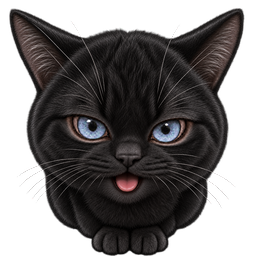
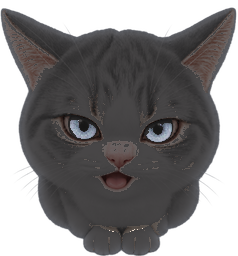
Public 0.5.22-B: the black cat does everything the white cat does
- Every dark-theme cat picture is now the white cat recoloured (tools/cat/recolor_dark.py): same shapes, motions and timing, black fur keeping the light/shade as soft texture, blue eyes kept (found as small blobs ringed by the eyelid line), dusky pink ears, nose, pads and tongue, the treat pouch and album props in their own colours, and a light rim along the outline so the cat reads on a dark taskbar
- Built: 11 stills, the gaze in-betweens, 3 lock widget motions, 17 taskbar motions (colour strips only, alpha shared) and 17 album cards
- In the dark theme the cat now walks, rests, plays from the menu, grows (its own points), gets surprise toys, and its notebook album shows black-cat cards
- Help: the white and the black cat keep their own points and size

diff --git a/src/OneKey/Strings.g.cs b/src/OneKey/Strings.g.cs
@@ -675,7 +675,7 @@ internal static partial class T
         "깜짝 놀잇감",
         "도움말 · 백업과 복원",
         "## 백업 파일 만들기\n• 설정 › 백업 파일 [백업]. \"마스터 비밀번호 입력\"에 지금 마스터를 넣고, 백업 파일에만 쓸 비밀번호를 \"백업 비밀번호 입력 / 확인\"에 정합니다.\n• 비밀번호·연결·설정·프로그램 목록이 모두 들어가, 다른 PC 나 Windows 재설치 뒤에도 복원할 수 있습니다.\n! 백업 파일은 백업 비밀번호 하나로만 잠깁니다. 길고 다른 데서 쓰지 않는 비밀번호로 정하고, 메일·메신저·공유 폴더가 아니라 본인이 관리하는 곳(USB 등)에 두세요. 잊으면 복원할 수 없습니다.\n## 복원 — 쓰던 PC\n• 설정 › 백업 파일 [복원]. 먼저 지금 설정도 백업 파일로 남길지 묻습니다.\n• 백업 파일과 백업 비밀번호만 넣습니다. 마스터 비밀번호는 지금 쓰는 것을 그대로 씁니다.\n## 복원 — 새 PC·Windows 재설치\n• 처음 설정 화면에서 트레이 아이콘 메뉴 › 백업에서 복원.\n• 백업 비밀번호와, 이 PC 에서 쓸 새 마스터 비밀번호를 넣습니다(예전과 같아도 됩니다).\n## 복원한 뒤\n• 1Key 가 잠기고 설정을 다시 읽습니다. 마스터로 잠금을 푸세요.\n> 프로그램·폴더는 이 PC 에서 다시 확인하며, 없는 프로그램은 실행하지 않습니다.",
-        "## 고양이 만나기\n• 1Key 창을 닫아 트레이로 내리면 작업 표시줄에 고양이가 나와요(설정 › 트레이 위젯 모드).\n• 마우스를 올리면 이름과 하트, 오른쪽 클릭하면 놀이 메뉴가 나와요.\n> 이름은 설정에서 흰 고양이 · 검은 고양이 따로 지어요. 지금 상태는 메뉴의 [수첩]에서 봐요.\n## 자라는 단계\n@stages:6\n• 콩떡 → 찹쌀떡 → 모닝빵 → 식빵 → 통식빵 → 대왕식빵. 20점마다 한 단계씩 커져요.\n## 점수 받는 법\n@missions:stamp=0|pet=0|treat=0|play=0|toy=0|break=0|pw=0/3|backup=0|master=0\n• 쓰담 · 츄르 · 놀이: 오른쪽 클릭 메뉴에서. 같은 놀이는 3분에 한 번 점수를 받아요.\n• 출근 도장: 그날 처음 잠금을 풀면 찍혀요. 주말은 건너뛰어도 연속, 자동 잠금을 켜 두면 +5 더.\n• 깜짝 놀잇감: 가끔 나비 · 털실 공 · 비눗방울이 나타나요. 누르면 고양이가 뛰어들어 놀아요.\n• 쉬는 시간: 50분 쉬지 않고 일하면 고양이가 쉬자고 해요. 5분 넘게 쉬고 오면 점수.\n• 보안 습관: 저장된 비밀번호 바꾸기(하루 세 번) · 백업 파일 만들기(일주일에 한 번) · 마스터 비밀번호 바꾸기(30일에 한 번).\n## 알아 두기\n> 벌칙은 없어요. 1Key가 켜져 있는 동안 10분에 1점씩 줄지만, 콩떡보다 작아지지 않아요.\n• 꺼져 있거나 PC가 잠든 시간은 세지 않아요.\n• 검은 고양이(어두운 테마)는 놀이 그림이 준비되면 같은 규칙으로 자라요.",
+        "## 고양이 만나기\n• 1Key 창을 닫아 트레이로 내리면 작업 표시줄에 고양이가 나와요(설정 › 트레이 위젯 모드).\n• 마우스를 올리면 이름과 하트, 오른쪽 클릭하면 놀이 메뉴가 나와요.\n> 이름은 설정에서 흰 고양이 · 검은 고양이 따로 지어요. 지금 상태는 메뉴의 [수첩]에서 봐요.\n## 자라는 단계\n@stages:6\n• 콩떡 → 찹쌀떡 → 모닝빵 → 식빵 → 통식빵 → 대왕식빵. 20점마다 한 단계씩 커져요.\n## 점수 받는 법\n@missions:stamp=0|pet=0|treat=0|play=0|toy=0|break=0|pw=0/3|backup=0|master=0\n• 쓰담 · 츄르 · 놀이: 오른쪽 클릭 메뉴에서. 같은 놀이는 3분에 한 번 점수를 받아요.\n• 출근 도장: 그날 처음 잠금을 풀면 찍혀요. 주말은 건너뛰어도 연속, 자동 잠금을 켜 두면 +5 더.\n• 깜짝 놀잇감: 가끔 나비 · 털실 공 · 비눗방울이 나타나요. 누르면 고양이가 뛰어들어 놀아요.\n• 쉬는 시간: 50분 쉬지 않고 일하면 고양이가 쉬자고 해요. 5분 넘게 쉬고 오면 점수.\n• 보안 습관: 저장된 비밀번호 바꾸기(하루 세 번) · 백업 파일 만들기(일주일에 한 번) · 마스터 비밀번호 바꾸기(30일에 한 번).\n## 알아 두기\n> 벌칙은 없어요. 1Key가 켜져 있는 동안 10분에 1점씩 줄지만, 콩떡보다 작아지지 않아요.\n• 꺼져 있거나 PC가 잠든 시간은 세지 않아요.\n• 흰 고양이와 검은 고양이(어두운 테마)는 점수와 크기를 따로 키워요.",
         "백업 복원을 끝내지 못한 상태입니다. 설정이 섞이지 않도록 끝날 때까지 설정을 읽거나 저장하지 않습니다.\n설정 폴더의 파일을 다른 프로그램(백신·동기화 등)이 잡고 있으면 닫은 뒤 다시 시도하세요.\n{dir}\n\n[확인] 다시 시도    [취소] 1Key 끝내기(다음 실행 때 다시 시도)",
         "이 백업에는 프로그램·폴더 목록이 없습니다(만들 때 목록을 읽지 못함).\n지금 목록을 그대로 둘까요?\n\n[예] 지금 목록 그대로    [아니요] 목록을 비움    [취소] 복원 그만두기",
     };
@@ -1347,7 +1347,7 @@ internal static partial class T
         "Surprise toy",
         "Help · Backup and restore",
         "## Making a backup file\n• Settings › Backup file [Back up]. Enter your current master in \"Enter master password\", and set a password just for the backup file in \"Enter backup password / Confirm\".\n• Passwords, links, settings and the program list all go in, so you can restore on another PC or after reinstalling Windows.\n! The backup file is locked only by the backup password. Choose a long one you don't use elsewhere, and keep the file somewhere you control (such as a USB drive), not in mail, chat or shared folders. If you forget it, the file can't be restored.\n## Restoring — the PC you use\n• Settings › Backup file [Restore]. You're first asked whether to keep the current settings as a backup file too.\n• Enter only the backup file and the backup password. Your current master password stays.\n## Restoring — new PC or reinstalled Windows\n• On the first setup screen: tray icon menu › Restore from a backup.\n• Enter the backup password and a new master password for this PC (it may be the same as before).\n## After restoring\n• 1Key locks and reads the settings again. Unlock with the master.\n> Programs and folders are checked again on this PC; missing programs are not started.",
-        "## Meet the cat\n• Close the 1Key window to the tray and a cat appears on the taskbar (Settings › Tray widget mode).\n• Hover over it to see its name and hearts; right-click it for the play menu.\n> Name the white and the black cat in Settings. [Notebook] in the menu shows how your cat is doing.\n## Growing up\n@stages:6\n• Bean Cake → Mochi → Bread Roll → Loaf → Big Loaf → Mega Loaf. One step every 20 points.\n## Earning points\n@missions:stamp=0|pet=0|treat=0|play=0|toy=0|break=0|pw=0/3|backup=0|master=0\n• Pet · Treat · Play: from the right-click menu. Each counts once every 3 minutes.\n• Paw stamp: your first unlock of the day. Weekends don't break the streak; with auto-lock on, +5 more.\n• Surprise toys: now and then a butterfly, a ball of yarn or a soap bubble pops up. Click it and the cat leaps in to play.\n• Breaks: after 50 minutes of work without a break the cat suggests one. Come back after 5 minutes or more for points.\n• Security habits: change a saved password (three a day) · make a backup (once a week) · change the master password (once in 30 days).\n## Good to know\n> No penalties. While 1Key runs, 1 point fades every 10 minutes, but the cat never gets smaller than Bean Cake.\n• Time while 1Key is closed or the PC sleeps does not count.\n• The black cat (dark theme) will grow by the same rules once its play art is ready.",
+        "## Meet the cat\n• Close the 1Key window to the tray and a cat appears on the taskbar (Settings › Tray widget mode).\n• Hover over it to see its name and hearts; right-click it for the play menu.\n> Name the white and the black cat in Settings. [Notebook] in the menu shows how your cat is doing.\n## Growing up\n@stages:6\n• Bean Cake → Mochi → Bread Roll → Loaf → Big Loaf → Mega Loaf. One step every 20 points.\n## Earning points\n@missions:stamp=0|pet=0|treat=0|play=0|toy=0|break=0|pw=0/3|backup=0|master=0\n• Pet · Treat · Play: from the right-click menu. Each counts once every 3 minutes.\n• Paw stamp: your first unlock of the day. Weekends don't break the streak; with auto-lock on, +5 more.\n• Surprise toys: now and then a butterfly, a ball of yarn or a soap bubble pops up. Click it and the cat leaps in to play.\n• Breaks: after 50 minutes of work without a break the cat suggests one. Come back after 5 minutes or more for points.\n• Security habits: change a saved password (three a day) · make a backup (once a week) · change the master password (once in 30 days).\n## Good to know\n> No penalties. While 1Key runs, 1 point fades every 10 minutes, but the cat never gets smaller than Bean Cake.\n• Time while 1Key is closed or the PC sleeps does not count.\n• The white and the black cat (dark theme) each have their own points and size.",
         "A backup restore did not finish. Until it does, 1Key will not read or save settings, so they do not get mixed.\nIf another program (antivirus, sync, etc.) is holding files in the settings folder, close it and try again.\n{dir}\n\n[OK] try again    [Cancel] quit 1Key (it tries again next time)",
         "This backup has no program/folder list (the list could not be read when it was made).\nKeep the current list?\n\n[Yes] keep the current list    [No] empty the list    [Cancel] stop the restore",
     };
@@ -2019,7 +2019,7 @@ internal static partial class T
         "惊喜玩具",
         "帮助 · 备份与恢复",
         "## 制作备份文件\n• 设置 › 备份文件 [备份]。在 \"输入主密码\" 中输入当前主密码，在 \"输入备份密码 / 确认\" 中设置仅用于备份文件的密码。\n• 密码、关联、设置和程序列表都会包含在内，在其他电脑或重装 Windows 后也能恢复。\n! 备份文件只由备份密码保护。请设置较长且不在别处使用的密码，并把文件放在自己管理的地方（如 U 盘），而不是邮件、聊天或共享文件夹。忘记则无法恢复。\n## 恢复 — 正在使用的电脑\n• 设置 › 备份文件 [恢复]。会先询问是否把当前设置也保存为备份文件。\n• 只需输入备份文件和备份密码。主密码保持当前使用的不变。\n## 恢复 — 新电脑·重装 Windows\n• 在初次设置界面：托盘图标菜单 › 从备份恢复。\n• 输入备份密码，以及这台电脑要用的新主密码（可以与以前相同）。\n## 恢复之后\n• 1Key 会锁定并重新读取设置。请用主密码解锁。\n> 程序和文件夹会在这台电脑上重新确认，不存在的程序不会运行。",
-        "## 认识猫咪\n• 把 1Key 窗口关到托盘后，任务栏上会出现猫咪（设置 › 托盘小部件模式）。\n• 把鼠标移到猫咪上可以看到名字和爱心，右键点它打开玩耍菜单。\n> 可以在设置里分别给白猫和黑猫取名。菜单里的 [手账] 可以查看猫咪现在的状态。\n## 成长阶段\n@stages:6\n• 小豆糕 → 麻薯 → 小餐包 → 吐司 → 大吐司 → 超大吐司。每 20 分升一级。\n## 获得积分\n@missions:stamp=0|pet=0|treat=0|play=0|toy=0|break=0|pw=0/3|backup=0|master=0\n• 摸摸 · 零食 · 玩耍：在右键菜单里。同一种 3 分钟只计一次。\n• 爪印：当天第一次解锁时盖上。隔着周末也算连续，开启自动锁定再 +5。\n• 惊喜玩具：偶尔会出现蝴蝶、毛线球或肥皂泡。点一下，猫咪就会扑过去一起玩。\n• 休息：连续工作 50 分钟后猫咪会提醒你休息。休息 5 分钟以上回来就得分。\n• 安全习惯：更改已保存的密码（每天三次）· 创建备份（每周一次）· 更改主密码（30 天一次）。\n## 小提示\n> 没有惩罚。1Key 运行时每 10 分钟减 1 分，但最小也是小豆糕。\n• 关闭 1Key 或电脑睡眠的时间不计算。\n• 黑猫（深色主题）的玩耍图画准备好后会按同样规则长大。",
+        "## 认识猫咪\n• 把 1Key 窗口关到托盘后，任务栏上会出现猫咪（设置 › 托盘小部件模式）。\n• 把鼠标移到猫咪上可以看到名字和爱心，右键点它打开玩耍菜单。\n> 可以在设置里分别给白猫和黑猫取名。菜单里的 [手账] 可以查看猫咪现在的状态。\n## 成长阶段\n@stages:6\n• 小豆糕 → 麻薯 → 小餐包 → 吐司 → 大吐司 → 超大吐司。每 20 分升一级。\n## 获得积分\n@missions:stamp=0|pet=0|treat=0|play=0|toy=0|break=0|pw=0/3|backup=0|master=0\n• 摸摸 · 零食 · 玩耍：在右键菜单里。同一种 3 分钟只计一次。\n• 爪印：当天第一次解锁时盖上。隔着周末也算连续，开启自动锁定再 +5。\n• 惊喜玩具：偶尔会出现蝴蝶、毛线球或肥皂泡。点一下，猫咪就会扑过去一起玩。\n• 休息：连续工作 50 分钟后猫咪会提醒你休息。休息 5 分钟以上回来就得分。\n• 安全习惯：更改已保存的密码（每天三次）· 创建备份（每周一次）· 更改主密码（30 天一次）。\n## 小提示\n> 没有惩罚。1Key 运行时每 10 分钟减 1 分，但最小也是小豆糕。\n• 关闭 1Key 或电脑睡眠的时间不计算。\n• 白猫和黑猫（深色主题）的积分和大小各自分开。",
         "备份恢复尚未完成。为避免设置混杂，在完成之前不会读取或保存设置。\n如果有其他程序（杀毒、同步等）占用设置文件夹中的文件，请关闭后重试。\n{dir}\n\n[确定] 重试    [取消] 退出 1Key（下次启动时重试）",
         "此备份不含程序/文件夹列表（创建时无法读取列表）。\n要保留当前列表吗？\n\n[是] 保留当前列表    [否] 清空列表    [取消] 停止恢复",
     };
@@ -2691,7 +2691,7 @@ internal static partial class T
         "びっくりおもちゃ",
         "ヘルプ · バックアップと復元",
         "## バックアップ ファイルの作成\n• 設定 › バックアップ ファイル [バックアップ]。「マスター パスワードを入力」に今のマスターを入れ、バックアップ ファイル専用のパスワードを「バックアップ パスワードを入力 / 確認」で決めます。\n• パスワード・連携・設定・プログラム一覧がすべて入り、別の PC や Windows の再インストール後でも復元できます。\n! バックアップ ファイルはバックアップ パスワードだけで守られます。長く、ほかで使っていないパスワードにし、メール・メッセンジャー・共有フォルダーではなく自分で管理する場所（USB など）に置いてください。忘れると復元できません。\n## 復元 — 使っている PC\n• 設定 › バックアップ ファイル [復元]。先に今の設定もバックアップ ファイルに残すか尋ねます。\n• バックアップ ファイルとバックアップ パスワードだけを入れます。マスター パスワードは今のものをそのまま使います。\n## 復元 — 新しい PC・Windows の再インストール\n• 初期設定の画面で、トレイ アイコンのメニュー › バックアップから復元。\n• バックアップ パスワードと、この PC で使う新しいマスター パスワードを入れます（以前と同じでもかまいません）。\n## 復元したあと\n• 1Key がロックされ、設定を読み直します。マスターでロックを解除してください。\n> プログラム・フォルダーはこの PC で確認し直し、ないプログラムは実行しません。",
-        "## 猫に会う\n• 1Key のウィンドウを閉じてトレイに入れると、タスクバーに猫が出てきます（設定 › トレイ ウィジェット モード）。\n• マウスを乗せると名前とハート、右クリックすると遊びメニューが出ます。\n> 名前は設定で白猫 · 黒猫それぞれ付けられます。今の様子はメニューの [手帳] で見られます。\n## 育つ段階\n@stages:6\n• 豆もち → 大福 → ロールパン → 食パン → 山食パン → 特大食パン。20 点ごとに 1 段階大きくなります。\n## ポイントのもらい方\n@missions:stamp=0|pet=0|treat=0|play=0|toy=0|break=0|pw=0/3|backup=0|master=0\n• なでる · おやつ · あそぶ：右クリック メニューから。同じ遊びは 3 分に 1 回だけ。\n• 肉球スタンプ：その日はじめてロックを解除したとき。週末をはさんでも連続、自動ロックがオンならさらに +5。\n• びっくりおもちゃ：ときどき ちょうちょ · 毛糸玉 · しゃぼん玉が現れます。クリックすると猫が飛びついて遊びます。\n• 休憩：休まず 50 分作業すると猫が休もうと言います。5 分以上休んで戻るとポイント。\n• セキュリティ習慣：保存したパスワードの変更（1 日 3 回）· バックアップ作成（週に 1 回）· マスター パスワード変更（30 日に 1 回）。\n## おぼえておこう\n> 罰はありません。1Key の起動中は 10 分ごとに 1 点へりますが、豆もちより小さくはなりません。\n• 閉じている時間やスリープ中は数えません。\n• 黒猫（ダークテーマ）は遊びの絵ができたら同じルールで育ちます。",
+        "## 猫に会う\n• 1Key のウィンドウを閉じてトレイに入れると、タスクバーに猫が出てきます（設定 › トレイ ウィジェット モード）。\n• マウスを乗せると名前とハート、右クリックすると遊びメニューが出ます。\n> 名前は設定で白猫 · 黒猫それぞれ付けられます。今の様子はメニューの [手帳] で見られます。\n## 育つ段階\n@stages:6\n• 豆もち → 大福 → ロールパン → 食パン → 山食パン → 特大食パン。20 点ごとに 1 段階大きくなります。\n## ポイントのもらい方\n@missions:stamp=0|pet=0|treat=0|play=0|toy=0|break=0|pw=0/3|backup=0|master=0\n• なでる · おやつ · あそぶ：右クリック メニューから。同じ遊びは 3 分に 1 回だけ。\n• 肉球スタンプ：その日はじめてロックを解除したとき。週末をはさんでも連続、自動ロックがオンならさらに +5。\n• びっくりおもちゃ：ときどき ちょうちょ · 毛糸玉 · しゃぼん玉が現れます。クリックすると猫が飛びついて遊びます。\n• 休憩：休まず 50 分作業すると猫が休もうと言います。5 分以上休んで戻るとポイント。\n• セキュリティ習慣：保存したパスワードの変更（1 日 3 回）· バックアップ作成（週に 1 回）· マスター パスワード変更（30 日に 1 回）。\n## おぼえておこう\n> 罰はありません。1Key の起動中は 10 分ごとに 1 点へりますが、豆もちより小さくはなりません。\n• 閉じている時間やスリープ中は数えません。\n• 白猫と黒猫（ダークテーマ）はポイントと大きさを別々に育てます。",
         "バックアップの復元が完了していません。設定が混ざらないよう、完了するまで設定を読み込んだり保存したりしません。\nほかのプログラム（ウイルス対策・同期など）が設定フォルダーのファイルを使用している場合は閉じてから再試行してください。\n{dir}\n\n[OK] 再試行    [キャンセル] 1Key を終了（次回起動時に再試行）",
         "このバックアップにはプログラム・フォルダー一覧がありません（作成時に一覧を読み込めませんでした）。\n現在の一覧をそのまま残しますか?\n\n[はい] 現在の一覧のまま    [いいえ] 一覧を空にする    [キャンセル] 復元をやめる",
     };
@@ -3363,7 +3363,7 @@ internal static partial class T
         "Đồ chơi bất ngờ",
         "Trợ giúp · Sao lưu và khôi phục",
         "## Tạo tệp sao lưu\n• Cài đặt › Tệp sao lưu [Sao lưu]. Nhập mật khẩu chính hiện tại vào \"Nhập mật khẩu chính\", và đặt mật khẩu riêng cho tệp sao lưu ở \"Nhập mật khẩu sao lưu / Xác nhận\".\n• Mật khẩu, liên kết, cài đặt và danh sách chương trình đều có trong tệp, nên có thể khôi phục trên máy khác hoặc sau khi cài lại Windows.\n! Tệp sao lưu chỉ được khóa bằng mật khẩu sao lưu. Hãy đặt mật khẩu dài, không dùng ở nơi khác, và để tệp ở nơi bạn tự quản lý (như USB), không gửi qua thư, tin nhắn hay thư mục chia sẻ. Quên mật khẩu thì không khôi phục được.\n## Khôi phục — máy đang dùng\n• Cài đặt › Tệp sao lưu [Khôi phục]. Trước tiên sẽ hỏi có lưu cài đặt hiện tại thành tệp sao lưu không.\n• Chỉ cần tệp sao lưu và mật khẩu sao lưu. Mật khẩu chính giữ nguyên như hiện tại.\n## Khôi phục — máy mới · cài lại Windows\n• Ở màn hình thiết lập ban đầu: menu biểu tượng khay › Khôi phục từ bản sao lưu.\n• Nhập mật khẩu sao lưu và mật khẩu chính mới dùng trên máy này (có thể giống trước).\n## Sau khi khôi phục\n• 1Key khóa và đọc lại cài đặt. Hãy mở khóa bằng mật khẩu chính.\n> Chương trình và thư mục được kiểm tra lại trên máy này; chương trình không có sẽ không được chạy.",
-        "## Làm quen với mèo\n• Đóng cửa sổ 1Key xuống khay hệ thống, mèo sẽ xuất hiện trên thanh tác vụ (Cài đặt › Chế độ tiện ích khay).\n• Di chuột lên mèo để xem tên và tim; nhấp chuột phải để mở menu chơi.\n> Đặt tên mèo trắng và mèo đen trong Cài đặt. [Sổ tay] trong menu cho xem mèo đang thế nào.\n## Các giai đoạn lớn lên\n@stages:6\n• Bánh đậu → Mochi → Bánh mì nhỏ → Bánh mì gối → Bánh mì lớn → Bánh mì khổng lồ. Mỗi 20 điểm lên một bậc.\n## Cách nhận điểm\n@missions:stamp=0|pet=0|treat=0|play=0|toy=0|break=0|pw=0/3|backup=0|master=0\n• Vuốt · Ăn vặt · Chơi: từ menu chuột phải. Mỗi loại 3 phút tính một lần.\n• Dấu chân: lần mở khoá đầu tiên trong ngày. Qua cuối tuần vẫn liên tục; bật tự khoá thì thêm +5.\n• Đồ chơi bất ngờ: thỉnh thoảng một chú bướm, cuộn len hay bong bóng xà phòng xuất hiện. Nhấp vào là mèo nhảy tới chơi.\n• Nghỉ giải lao: làm 50 phút liền thì mèo nhắc nghỉ. Nghỉ từ 5 phút rồi quay lại là có điểm.\n• Thói quen bảo mật: đổi mật khẩu đã lưu (ba lần một ngày) · tạo sao lưu (mỗi tuần một lần) · đổi mật khẩu chính (30 ngày một lần).\n## Cần biết\n> Không bị phạt. Khi 1Key chạy, cứ 10 phút giảm 1 điểm, nhưng mèo không nhỏ hơn Bánh đậu.\n• Thời gian tắt 1Key hoặc máy ngủ không tính.\n• Mèo đen (giao diện tối) sẽ lớn theo cùng luật khi có hình chơi.",
+        "## Làm quen với mèo\n• Đóng cửa sổ 1Key xuống khay hệ thống, mèo sẽ xuất hiện trên thanh tác vụ (Cài đặt › Chế độ tiện ích khay).\n• Di chuột lên mèo để xem tên và tim; nhấp chuột phải để mở menu chơi.\n> Đặt tên mèo trắng và mèo đen trong Cài đặt. [Sổ tay] trong menu cho xem mèo đang thế nào.\n## Các giai đoạn lớn lên\n@stages:6\n• Bánh đậu → Mochi → Bánh mì nhỏ → Bánh mì gối → Bánh mì lớn → Bánh mì khổng lồ. Mỗi 20 điểm lên một bậc.\n## Cách nhận điểm\n@missions:stamp=0|pet=0|treat=0|play=0|toy=0|break=0|pw=0/3|backup=0|master=0\n• Vuốt · Ăn vặt · Chơi: từ menu chuột phải. Mỗi loại 3 phút tính một lần.\n• Dấu chân: lần mở khoá đầu tiên trong ngày. Qua cuối tuần vẫn liên tục; bật tự khoá thì thêm +5.\n• Đồ chơi bất ngờ: thỉnh thoảng một chú bướm, cuộn len hay bong bóng xà phòng xuất hiện. Nhấp vào là mèo nhảy tới chơi.\n• Nghỉ giải lao: làm 50 phút liền thì mèo nhắc nghỉ. Nghỉ từ 5 phút rồi quay lại là có điểm.\n• Thói quen bảo mật: đổi mật khẩu đã lưu (ba lần một ngày) · tạo sao lưu (mỗi tuần một lần) · đổi mật khẩu chính (30 ngày một lần).\n## Cần biết\n> Không bị phạt. Khi 1Key chạy, cứ 10 phút giảm 1 điểm, nhưng mèo không nhỏ hơn Bánh đậu.\n• Thời gian tắt 1Key hoặc máy ngủ không tính.\n• Mèo trắng và mèo đen (giao diện tối) có điểm và kích thước riêng.",
         "Việc khôi phục bản sao lưu chưa xong. Cho đến khi xong, 1Key sẽ không đọc hay lưu cài đặt để tránh lẫn lộn.\nNếu chương trình khác (diệt virus, đồng bộ…) đang giữ tệp trong thư mục cài đặt, hãy đóng nó rồi thử lại.\n{dir}\n\n[OK] thử lại    [Hủy] thoát 1Key (lần chạy sau sẽ thử lại)",
         "Bản sao lưu này không có danh sách chương trình/thư mục (không đọc được danh sách khi tạo).\nGiữ danh sách hiện tại?\n\n[Có] giữ danh sách hiện tại    [Không] làm trống danh sách    [Hủy] dừng khôi phục",
     };

diff --git a/tools/cat/recolor_dark.py b/tools/cat/recolor_dark.py
@@ -1,0 +1,161 @@
+# -*- coding: utf-8 -*-
+"""Black cat = the white (grey tabby) cat recoloured (public edition 0.5.22, 2026-10-10 user: "same as the white cat, only the colour differs").
+
+Every dark-theme cat picture is made from its light counterpart with the same shape and the same alpha, so motions, timing and
+the joins between stills and motions are identical for both cats:
+  fur (everything that is not eye or pink) -> near-black with the original light/shade kept as soft texture
+  iris (blue, with the pupil and catch-lights it encloses)    -> unchanged
+  pink (ear insides, nose, paw pads, tongue)                   -> dusky pink
+recolour(rgb, a) works on straight (not premultiplied) float RGB 0..1 and an alpha 0..1.
+
+  py -3.12 tools/cat/recolor_dark.py all        rebuild every dark asset in src/OneKey/Assets/cat from the light ones
+  py -3.12 tools/cat/recolor_dark.py sample OUT  a light/dark comparison sheet
+"""
+import sys
+from pathlib import Path
+import numpy as np
+from PIL import Image
+from scipy import ndimage
+
+REPO = Path(__file__).resolve().parents[2]
+CAT = REPO / "src" / "OneKey" / "Assets" / "cat"
+
+FUR_BASE, FUR_GAIN, FUR_GAMMA = 0.085, 0.20, 1.1
+RIM = 0.34                  # light rim along the outline (the hand-drawn black cat has one) so the cat reads on a dark taskbar
+RIM_TINT = np.array([0.80, 0.84, 0.92])
+FUR_TINT = np.array([1.0, 0.975, 0.985])
+PINK_KEEP = 0.46
+
+def masks(rgb, a):
+    r, g, b = rgb[..., 0], rgb[..., 1], rgb[..., 2]
+    solid = a > 0.35
+    blue = solid & (b > r + 0.07) & (b > g + 0.02)
+    lab, n = ndimage.label(blue)
+    iris = np.zeros_like(blue)
+    if n:
+        sizes = ndimage.sum(blue, lab, range(1, n + 1))
+        keep = np.isin(lab, [i + 1 for i, s in enumerate(sizes) if s >= max(3, blue.shape[0] * blue.shape[1] * 0.00004)])
+        cand = ndimage.binary_fill_holes(ndimage.binary_closing(keep, iterations=1)) & solid
+        # an eye is small and ringed by the dark eyelid line; the video model's bluish tint on fur (tail tip, back) sits on light fur
+        # (measured: open eyes ring 20th-percentile brightness 0.10-0.24, tints 0.38-0.84 — half-shut eyes ~0.4 turn dark, which reads fine)
+        L = rgb @ np.array([0.299, 0.587, 0.114], np.float32)
+        lab2, n2 = ndimage.label(cand)
+        maxA = 0.008 * blue.shape[0] ** 2          # strip: cell height; still: picture height
+        rw = max(1, round(blue.shape[0] * 0.02))
+        for i in range(1, n2 + 1):
+            m = lab2 == i
+            if m.sum() > maxA: continue
+            ring = ndimage.binary_dilation(m, iterations=rw) & ~m & solid
+            if ring.any() and np.percentile(L[ring], 20) <= 0.30: iris |= m
+    pink = solid & (r > g + 0.07) & (r > b + 0.03) & ~iris
+    L = rgb @ np.array([0.299, 0.587, 0.114], np.float32)
+    # treat pouch (props keep their colour): judged on smoothed colour (JPEG strips have noisy chroma), then closed and grown a little
+    gb = ndimage.gaussian_filter(g - b, 1.2); rg = ndimage.gaussian_filter(r - g, 1.2)
+    cream = solid & (gb > 0.058) & (rg < 0.16) & (L > 0.62) & ~iris   # pouch g-b ~0.08 · fur ~0.016 (album treat measured)
+    cream = ndimage.binary_closing(cream, iterations=2)
+    lab, n = ndimage.label(cream)
+    if n:
+        sizes = ndimage.sum(cream, lab, range(1, n + 1))
+        cream = np.isin(lab, [i + 1 for i, s in enumerate(sizes) if s >= 12])
+    cream = ndimage.binary_dilation(ndimage.binary_fill_holes(ndimage.binary_closing(cream, iterations=4)), iterations=1) & solid & ~iris & ~pink   # 봉지 안 그늘 줄까지
+    return iris, pink, cream
+
+def recolour(rgb, a):
+    rgb = rgb.astype(np.float32)
+    iris, pink, cream = masks(rgb, a)
+    L = rgb @ np.array([0.299, 0.587, 0.114], np.float32)
+    fur = (FUR_BASE + FUR_GAIN * np.power(np.clip(L, 0, 1), FUR_GAMMA))[..., None] * FUR_TINT
+    # rim: distance from the outline, in proportion to the picture height (a strip's cells share its height)
+    dist = ndimage.distance_transform_edt(a > 0.5)
+    w = max(1.0, a.shape[0] * 0.018)
+    rim = np.exp(-dist / w)[..., None] * RIM
+    fur = fur * (1 - rim) + RIM_TINT * rim
+    out = fur.copy()
+    out[cream] = rgb[cream]
+    dusk = np.clip(rgb * PINK_KEEP, 0, 1) * 0.75 + fur * 0.25
+    out[pink] = dusk[pink]
+    out[iris] = rgb[iris]
+    return np.clip(out, 0, 1)
+
+# ---------------------------------------------------------------- file helpers
+
+def png_straight(path):
+    im = np.asarray(Image.open(path).convert("RGBA")).astype(np.float32) / 255
+    return im[..., :3], im[..., 3]
+
+def save_png(path, rgb, a):
+    Image.fromarray(np.dstack([rgb, a[..., None]]).__mul__(255).round().clip(0, 255).astype(np.uint8), "RGBA").save(path, optimize=True)
+
+def strip_straight(jpg, alpha_png):
+    pre = np.asarray(Image.open(jpg).convert("RGB")).astype(np.float32) / 255
+    a = np.asarray(Image.open(alpha_png).convert("L")).astype(np.float32) / 255
+    rgb = np.where(a[..., None] > 0.01, np.minimum(pre, a[..., None]) / np.maximum(a[..., None], 1e-3), 0)
+    return rgb, a
+
+def save_strip_jpg(path, rgb, a):
+    pre = (rgb * a[..., None] * 255).round().clip(0, 255).astype(np.uint8)
+    Image.fromarray(pre, "RGB").save(path, quality=88, subsampling=0, optimize=True)
+
+def build_all():
+    n = 0
+    for p in sorted(CAT.glob("cat_light_*.png")):                       # gaze stills + meow stills
+        rgb, a = png_straight(p); save_png(CAT / p.name.replace("_light_", "_dark_"), recolour(rgb, a), a); n += 1
+    rgb, a = strip_straight(CAT / "cat_light_tw.jpg", CAT / "cat_light_tw_a.png")     # gaze in-betweens
+    save_strip_jpg(CAT / "cat_dark_tw.jpg", recolour(rgb, a), a)
+    Image.open(CAT / "cat_light_tw_a.png").save(CAT / "cat_dark_tw_a.png"); n += 1
+    for p in sorted(CAT.glob("lockclip_*_light.jpg")):                   # lock widget motions
+        ap = CAT / p.name.replace(".jpg", "_a.png")
+        rgb, a = strip_straight(p, ap)
+        save_strip_jpg(CAT / p.name.replace("_light", "_dark"), recolour(rgb, a), a)
+        Image.open(ap).save(CAT / ap.name.replace("_light", "_dark")); n += 1
+    lines = (CAT / "lockclips.txt").read_text(encoding="utf-8").splitlines()   # dark lines = light lines (same strips now)
+    light = {l.split()[0]: l for l in lines if len(l.split()) > 2 and l.split()[1] == "light"}
+    out = [l if not (len(l.split()) > 2 and l.split()[1] == "dark") else light[l.split()[0]].replace(" light ", " dark ", 1) for l in lines]
+    (CAT / "lockclips.txt").write_text("\n".join(out) + "\n", encoding="utf-8")
+    for p in sorted(CAT.glob("catclip_*.jpg")):                           # taskbar motions: colour strip only, alpha shared
+        if p.stem.endswith("_dark"): continue
+        rgb, a = strip_straight(p, CAT / f"{p.stem}_a.png")
+        save_strip_jpg(CAT / f"{p.stem}_dark.jpg", recolour(rgb, a), a); n += 1
+    for p in sorted(CAT.glob("album_*.png")):                             # notebook album cards (stage badges are bread - no cat)
+        if p.stem.endswith("_dark") or "stage" in p.stem: continue
+        rgb, a = png_straight(p); d = recolour(rgb, a)
+        npp = CAT / f"{p.stem}-noprop.png"
+        if npp.exists() and not p.stem.endswith("-noprop"):              # the prop (pouch, feather, yarn) keeps its colours
+            rn, an = png_straight(npp)
+            prop = (np.abs(rgb - rn).max(axis=2) > 0.06) | (np.abs(a - an) > 0.06)
+            prop = ndimage.binary_opening(prop, iterations=1) & (a > an + 0.02) | (prop & (an < 0.3))
+            d[prop] = rgb[prop]
+        save_png(CAT / f"{p.stem}_dark.png", d, a); n += 1
+    print("dark assets", n)
+
+def sample(out):
+    picks = [("cat_light_center.png", None), ("cat_light_meow-open.png", None), ("catclip_M04.jpg", 40), ("catclip_WL.jpg", 3),
+             ("catclip_I2.jpg", 60), ("catclip_HP.jpg", 14), ("album_pet.png", None), ("album_treat.png", None)]
+    tiles = []
+    for name, cell in picks:
+        if name.endswith(".png"):
+            rgb, a = png_straight(CAT / name)
+        else:
+            rgb, a = strip_straight(CAT / name, CAT / name.replace(".jpg", "_a.png"))
+            info = {l.split()[0]: l.split() for l in (CAT / "catclips.txt").read_text().splitlines() if l.strip()}[Path(name).stem.split("_", 1)[1]]
+            cw = int(info[2]); rgb, a = rgb[:, cell * cw:(cell + 1) * cw], a[:, cell * cw:(cell + 1) * cw]
+        d = recolour(rgb, a)
+        for img in (rgb, d):
+            t = Image.fromarray((np.dstack([img, a[..., None]]) * 255).round().astype(np.uint8), "RGBA")
+            k = 160 / max(t.size); t = t.resize((max(1, round(t.width * k)), max(1, round(t.height * k))), Image.LANCZOS)
+            tiles.append(t)
+    W = sum(t.width + 8 for t in tiles[::2]); H = 2 * (160 + 8) * 2
+    sheet = Image.new("RGBA", (W, H), (243, 243, 243, 255)); sheet.paste((32, 32, 32, 255), (0, H // 2, W, H))
+    x = 0
+    for i in range(0, len(tiles), 2):
+        for row, bgy in ((0, 0), (1, H // 2)):
+            sheet.alpha_composite(tiles[i], (x, bgy + 4)); sheet.alpha_composite(tiles[i + 1], (x, bgy + 172))
+        x += tiles[i].width + 8
+    dk = Image.open(CAT / "cat_dark_center.png").convert("RGBA"); dk.thumbnail((160, 160))
+    sheet.alpha_composite(dk, (W - dk.width - 4, H // 2 + 4)) if False else None
+    sheet.convert("RGB").save(out); print(out)
+
+if __name__ == "__main__":
+    if len(sys.argv) > 1 and sys.argv[1] == "all": build_all()
+    elif len(sys.argv) > 2 and sys.argv[1] == "sample": sample(sys.argv[2])
+    else: print(__doc__)

diff --git a/src/OneKey/CatClips.cs b/src/OneKey/CatClips.cs
@@ -13,7 +13,7 @@ namespace OneKey;
 /// 다니는 범위는 작업 표시줄 오른쪽 5분의 1(사내판과 같음). 그림은 오른쪽을 보는 것뿐이라 왼쪽으로 갈 때는 좌우를 뒤집는다.
 /// 재생: 고해상도 대기 타이머 스레드가 46.875 ms(약 21 fps — 0.5.21-G 사용자: 전반적으로 슬로 모션 같다 → 1.33배, 16 fps 영상 장을 그대로 빠르게)마다 창에 틱을 보내고, 틱마다 정확히 한 걸음(시간으로 장을 고르지 않는다 — 사내판 131-B 의
 /// 한 장 두 번·다음 장 건너뜀이 없게). 그림 띠는 다른 스레드에서 풀고 줄인 뒤 시작한다(시작 멈춤 없음, 사내판 131-D/E).
-/// 밝은 고양이만(검은 고양이 동작 그림은 아직 없다 — 어두우면 쳐다보기만).
+/// 검은 고양이(0.5.22, 2026-10-10 사용자: 흰 고양이와 같고 색만 다르게): 모든 동작 띠에 색만 바꾼 판 catclip_<이름>_dark.jpg(tools/cat/recolor_dark.py) — 투명도 띠는 같은 것을 쓴다.
 /// 시험 모드: ONEKEY_TEST_CAT_SEQ=1 이면 목록 순서대로 모든 그림(x:1 포함)을 0.6초 사이를 두고 되풀이하고(catseq.ps1), ONEKEY_TEST_CAT_WALK=1 이면
 /// 걷기만 0.6초 사이로 되풀이한다(catwalk.ps1). 둘 다 ONEKEY_TEST_CAT_LOG 파일에 틱마다 간격·일한 시간·걸음·창 자리를 적는다.
 /// </summary>
@@ -175,7 +175,7 @@ internal static unsafe partial class CatWidget
         if (Hold) { _wantFront = false; return; }   // 메뉴 판이 열려 있는 동안은 제자리(CatMenu)
         var dt = DateTime.Now;
         if (_peekOn || now < _nextClipAt || (dt.Minute == 59 && dt.Second >= 20)) { _wantFront = false; return; }
-        if (PeekTest || !_light) { StartPeek(now); return; }   // 검은 고양이는 아직 동작 그림이 없어 숨기만(시선 그림으로 된다)
+        if (PeekTest || !HasInteractArt(_light)) { StartPeek(now); return; }   // 동작 그림이 없는 고양이는 숨기만(시선 그림으로 된다)
         _wantFront = true;
         if (_gaze != Center || _from != _gaze) return;
         _wantFront = false;
@@ -197,7 +197,7 @@ internal static unsafe partial class CatWidget
     internal static bool CanInteract(string name) => _shown && HasInteractArt(_light) && ClipIndex(name) >= 0;
 
     /// <summary>그 색 고양이에게 상호작용 그림이 있나(키우기도 이것을 따른다 — CatGrowth). 동작 그림은 아직 밝은 고양이뿐: 검은 고양이 그림이 들어오면 여기만 바꾼다.</summary>
-    internal static bool HasInteractArt(bool light) => light && ClipIndex("I1") >= 0;
+    internal static bool HasInteractArt(bool light) => ClipIndex("I1") >= 0 && (light || HasPng("catclip_I1_dark.jpg"));   // 0.5.22: 검은 고양이도(색만 바꾼 띠)
 
     /// <summary>상호작용 동작을 시킨다(메뉴). 쉬는 중이면 정면을 본 뒤 바로, 걷거나 다른 동작 중이면 그 동작이 끝난 뒤.</summary>
     internal static void Interact(string name)
@@ -231,7 +231,7 @@ internal static unsafe partial class CatWidget
 
     private static int NextSeq() { var all = Clips(); if (all.Length == 0) return -1; int i = _seqNext % all.Length; _seqNext = i + 1; return i; }
 
-    private static void ScheduleNextClip(long now) => _nextClipAt = now + (SeqTest || WalkTest || PeekTest || FullTest ? SeqGapMs : _light ? 2_500 + _rnd.Next(4_500) : 15_000 + _rnd.Next(20_000));   // 동작 사이 쉬기 2.5~7초(0.5.15-R, 5~14초에서)
+    private static void ScheduleNextClip(long now) => _nextClipAt = now + (SeqTest || WalkTest || PeekTest || FullTest ? SeqGapMs : HasInteractArt(_light) ? 2_500 + _rnd.Next(4_500) : 15_000 + _rnd.Next(20_000));   // 동작 사이 쉬기 2.5~7초(0.5.15-R, 5~14초에서)
 
     // ------------------------------------------------------------------ 숨기(작업 표시줄 선 밑으로 쏙 — 눈만 내밀고 두리번거렸다가 올라온다)
     // 사내판의 매달리기 자리(그림 없이 시선 그림으로 — 밝은·검은 고양이 모두). 틱마다 _sink(그림을 아래로 내린 px)와 시선만 바꾼다
@@ -422,7 +422,8 @@ internal static unsafe partial class CatWidget
         nint col = 0, alp = 0, src = 0, dst = 0, g = 0;
         try
         {
-            if ((col = LoadPng($"catclip_{info.Name}.jpg")) == 0 || (alp = LoadPng($"catclip_{info.Name}_a.png")) == 0) return null;
+            string cj = !_light && HasPng($"catclip_{info.Name}_dark.jpg") ? $"catclip_{info.Name}_dark.jpg" : $"catclip_{info.Name}.jpg";   // 검은 고양이: 색 띠만 다르다
+            if ((col = LoadPng(cj)) == 0 || (alp = LoadPng($"catclip_{info.Name}_a.png")) == 0) return null;
             GdipGetImageWidth(col, out uint sw); GdipGetImageHeight(col, out uint sh);
             if (sw != info.CellW * info.Frames || sh != info.CellH) return null;
             int W = (int)sw, H = (int)sh;

diff --git a/src/OneKey/HelpArt.cs b/src/OneKey/HelpArt.cs
@@ -140,6 +140,7 @@ internal static unsafe class HelpArt
                         int cx = x0 + (i % AlbumCols) * (cell + gap), cy = (i / AlbumCols) * (cell + cap + gap), pad = S(4);
                         Gdiplus.FillRoundRect(dc, cx, cy, cell, cell, S(10), Theme.Mix(Theme.CardBg, Theme.ControlText, Theme.IsDark ? 0.07 : 0.045));
                         nint img = Image($"album_{kv[0]}.png");
+                        if (seen && !CatWidget.IsLight && CatWidget.HasPng($"album_{kv[0]}_dark.png")) img = Image($"album_{kv[0]}_dark.png");   // 검은 고양이의 수첩이면 검은 고양이 카드(0.5.22)
                         // 못 본 장면의 실루엣은 소품 없는 판이 있으면 그것으로(0.5.21-H — 츄르 봉지 · 깃털까지 실루엣에 나와 고양이 모양이 덜 읽혔다)
                         if (!seen && CatWidget.HasPng($"album_{kv[0]}-noprop.png")) img = Image($"album_{kv[0]}-noprop.png");
                         if (seen) Gdiplus.DrawImageSmooth(dc, img, cx + pad, cy + pad, cell - 2 * pad, cell - 2 * pad);

diff --git a/src/OneKey/App.cs b/src/OneKey/App.cs
@@ -14,7 +14,7 @@ internal sealed unsafe partial class App
 
     private static readonly string ClassName = Program.WindowClass;
     private const string AppTitle = "1Key";
-    public const string Version = "0.5.21-I";
+    public const string Version = "0.5.22-B";
 
     /// <summary>버전을 크기 비교가 가능한 정수로. "0.2.0" → 0x000200.</summary>
     public static int VersionCode
